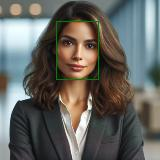
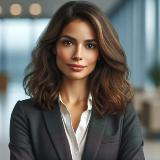
latest merging all

Changed region(s): [[0.3438, 0.0938, 0.625, 0.5]]

diff --git a/main.py b/main.py
@@ -3,6 +3,7 @@
 
 from facenet_pytorch import MTCNN, InceptionResnetV1
 from PIL import Image, ImageDraw
+from mosaic import apply_mosaic_section
 
 # If required, create a face detection pipeline using MTCNN:
 mtcnn = MTCNN(image_size=160, margin=0)
@@ -33,7 +34,10 @@ if boxes is not None:
     for box in boxes:
         # Instead of draw.rectangle, simply apply mosaic filter. 
         # box.toList() contains the coordinates of the box
-        draw.rectangle(box.tolist(), outline=box_color, width=thickness)
+        # draw.rectangle(box.tolist(), outline=box_color, width=thickness)
+        box = box.tolist()
+        print(box)
+        draw_img = apply_mosaic_section(draw_img, int(box[0]), int(box[1]), int(box[2]), int(box[3]))
 
 # Save and display the image
 draw_img.save('./images/test_with_boxes.jpg')

diff --git a/mosaic.py b/mosaic.py
@@ -4,7 +4,7 @@ IMAGE_TO_PROCESS = 'assets/car.jpg'
 SAVE_DIRECTORY = 'results/'
 TILE_SIZE = 20
 
-img = Image.open(IMAGE_TO_PROCESS)
+#img = Image.open(IMAGE_TO_PROCESS)
 
 
 def get_average_rgb(tile):
@@ -35,6 +35,6 @@ def apply_mosaic_section(image, x1, y1, x2, y2):
     return image
 
 
-mosaic_image = apply_mosaic_section(img, 0, 0, 1000, 1000)
-mosaic_image.save(SAVE_DIRECTORY + 'mosaic.jpg')
+#mosaic_image = apply_mosaic_section(img, 0, 0, 1000, 1000)
+#mosaic_image.save(SAVE_DIRECTORY + 'mosaic.jpg')
 print("good")
